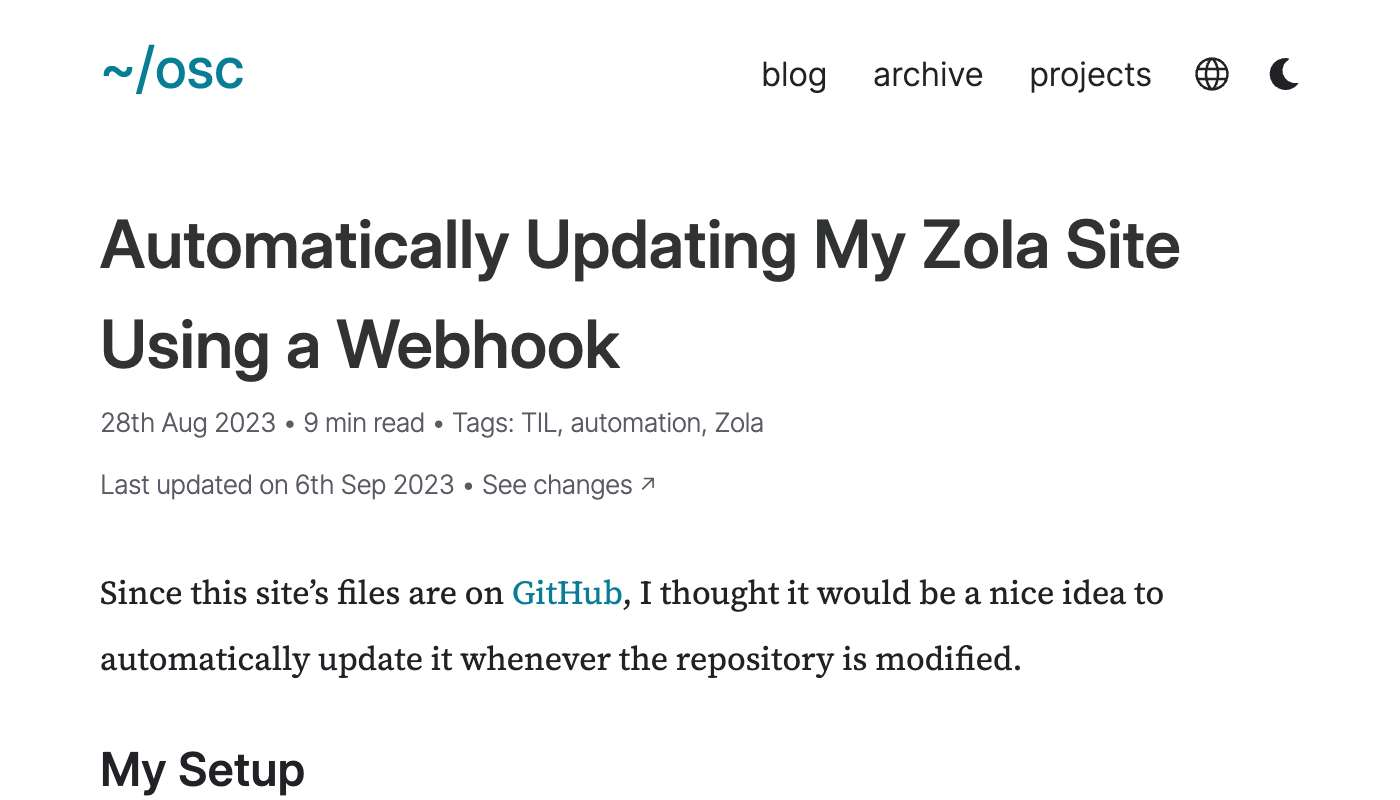
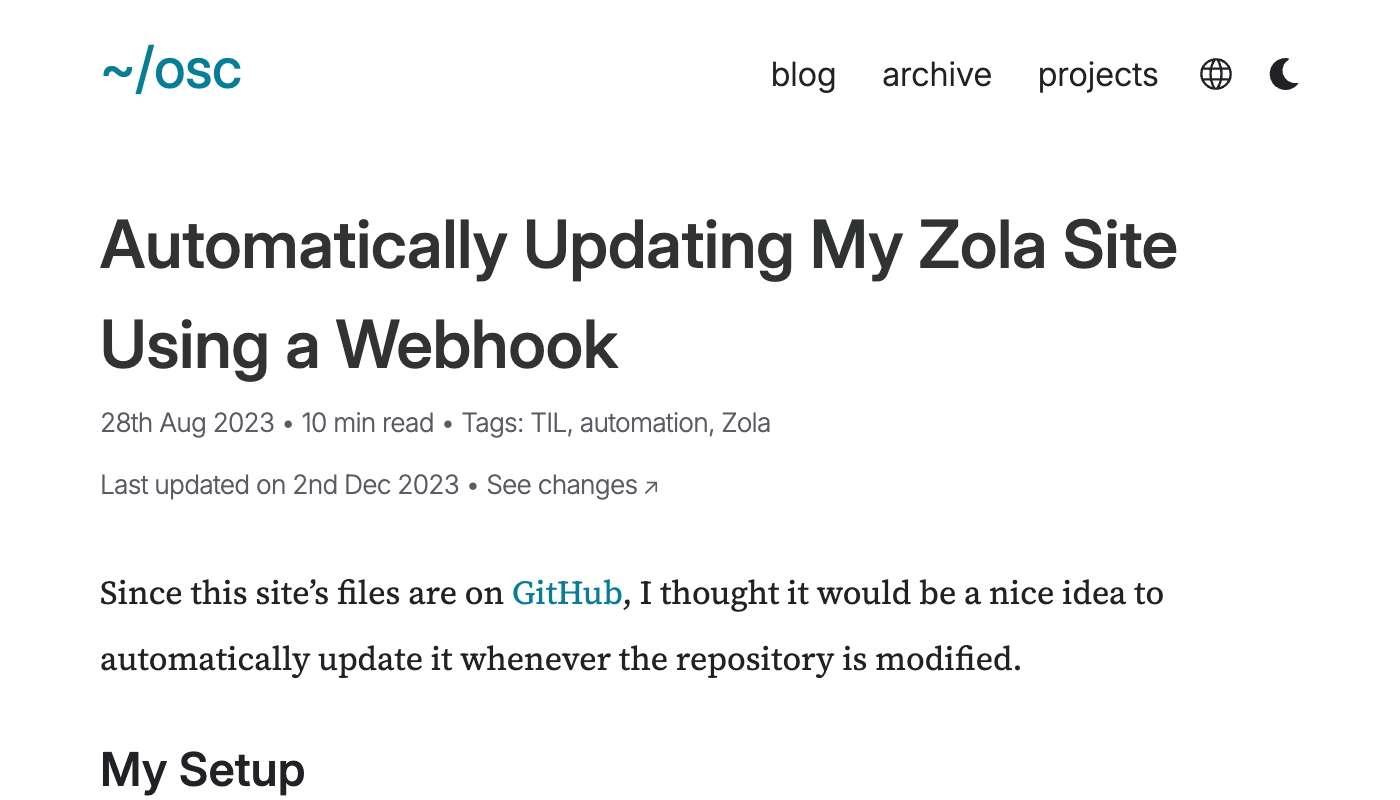
Oracle deleted my Free Tier account 🙃

diff --git a/content/blog/updating-site-with-webhook.es.md b/content/blog/updating-site-with-webhook.es.md
@@ -1,13 +1,14 @@
 +++
 title = "Automatizando la actualización de mi web con un webhook"
 date = 2023-08-28
-updated = 2023-10-19
+updated = 2023-12-02
 
 [taxonomies]
 tags = ["aprendizaje del día", "Zola", "automatización"]
 
 [extra]
 copy_button = true
+footnote_backlinks = true
 social_media_card = "img/social_cards/es_blog_updating_site_with_webhook.jpg"
 +++
 
@@ -15,7 +16,7 @@ Como los archivos de esta web están en [GitHub](https://github.com/welpo/osc.ga
 
 ## Mi sistema
 
-Esta web se sirve desde una instancia ARM de la [Free Tier de Oracle](https://www.oracle.com/cloud/free/). Hace un tiempo conseguí instalar Debian desde dentro de una instancia de Ubuntu —fue una tarde entretenida.
+Esta web se sirve desde una ~~instancia ARM de la Free Tier de Oracle~~[^1] máquina virtual de Vultr barata y fiable.
 
 La web está construida con [Zola](https://www.getzola.org/), un generador de sitios estáticos escrito en Rust. Para actualizarla, basta con sincronizar el repositorio y ejecutar `zola build`. Escribí un sencillo script en bash (`update_osc.garden`) que hace exactamente eso:
 
@@ -335,3 +336,7 @@ Las notificaciones se ven así (haz clic para alternar entre éxito y error):
 Tras aprender sobre la magia negra de los webhooks, investigué un poco sobre las notificaciones push —efectivamente, hay similitudes. Sin embargo, en lugar de escuchar en un puerto, los teléfonos dependen de conexiones duraderas a un servicio de notificaciones. Utilizan un mecanismo de *keep-alive* para mantener la conexión abierta y cuando el servidor tiene algo que notificar, manda la notificación a través de esta conexión preexistente.
 
 He aquí una analogía: los webhooks son como tus amigos enviándote un mensaje de texto (una nueva conexión cada vez) para decirte algo. Las notificaciones push, en contraposición, son como estar en una larga llamada de voz con un amigo —incluso cuando nadie habla, la conexión persiste. Cuando alguien tiene algo que decir, lo hace a través de la llamada existente en lugar de establecer una nueva conexión. El mecanismo de *keep-alive* —que mantiene la conexión abierta— sería como preguntar, después de unos minutos de silencio, «¿Sigues ahí?». «Sigo aquí».
+
+---
+
+[^1]: Oracle eliminó mi cuenta de Free Tier sin advertencia, explicación o recurso (una práctica habitual, parece). Ahora estoy alojando el sitio en una instancia de Vultr asequible y fiable que he tenido durante más de 6 años. Si quieres probar Vultr, aquí está [mi enlace de registro de referencia](https://www.vultr.com/?ref=7123709), que te da $100 en crédito, mientras yo recibo $10.

diff --git a/content/blog/updating-site-with-webhook.ca.md b/content/blog/updating-site-with-webhook.ca.md
@@ -1,13 +1,14 @@
 +++
 title = "Automatitzant l'actualització de la meva web amb un webhook"
 date = 2023-08-28
-updated = 2023-10-19
+updated = 2023-12-02
 
 [taxonomies]
 tags = ["aprenentatge del dia", "Zola", "automatització"]
 
 [extra]
 copy_button = true
+footnote_backlinks = true
 social_media_card = "img/social_cards/ca_blog_updating_site_with_webhook.jpg"
 +++
 
@@ -15,7 +16,7 @@ Com que els fitxers d'aquesta web estan a [GitHub](https://github.com/welpo/osc.
 
 ## El meu sistema
 
-Aquesta web se serveix des d'una instància ARM de la [Free Tier d'Oracle](https://www.oracle.com/cloud/free/). Fa un temps vaig aconseguir instal·lar Debian des de dins d'una instància d'Ubuntu —va ser una tarda entretinguda.
+Aquesta web se serveix des d'una ~~instància ARM de la Free Tier d'Oracle~~[^1] màquina virtual de Vultr barata i fiable.
 
 La web està construïda amb [Zola](https://www.getzola.org/), un generador de llocs estàtics escrit en Rust. Per actualitzar-la, només cal sincronitzar el repositori i executar `zola build`. Vaig escriure un senzill script en bash (`update_osc.garden`) que fa exactament això:
 
@@ -335,3 +336,7 @@ Això és tot! Després d'experimentar amb noves eines, barallar-me amb els perm
 Després d'aprendre sobre la màgia negra dels webhooks, vaig investigar una mica sobre les notificacions push —efectivament, hi ha similituds. Els mòbils, però, en lloc d'escoltar en un port, depenen de connexions duradores a un servei de notificacions. Utilitzen un mecanisme de *keep-alive* per mantenir la connexió oberta i quan el servidor té alguna cosa per notificar, envia la notificació a través d'aquesta connexió preexistent.
 
 Com a analogia: els webhooks són com els teus amics enviant-te un missatge de text (una nova connexió cada cop) per dir-te alguna cosa. Les notificacions push, en contraposició, són com estar en una llarga trucada de veu amb un amic —inclús quan ningú parla, la connexió persisteix. Quan algú té alguna cosa a dir, ho fa a través de la trucada existent en lloc d'establir una nova connexió. El mecanisme de *keep-alive* —que manté la connexió oberta— seria com preguntar, després d'uns minuts de silenci, «Hi ets?». «Hi soc».
+
+---
+
+[^1]: Oracle va eliminar el meu compte de Free Tier sense avís, explicació o recurs (una pràctica habitual, sembla). Ara estic allotjant el lloc en una instància de Vultr assequible i fiable que tinc des de fa més de sis anys. Si vols provar Vultr, aquí tens [el meu enllaç de registre de referència](https://www.vultr.com/?ref=7123709), que et dona $100 en crèdit, mentre jo rebo $10.

diff --git a/content/blog/updating-site-with-webhook.md b/content/blog/updating-site-with-webhook.md
@@ -1,13 +1,14 @@
 +++
 title = "Automatically Updating My Zola Site Using a Webhook"
 date = 2023-08-28
-updated = 2023-10-19
+updated = 2023-12-02
 
 [taxonomies]
 tags = ["TIL", "automation", "Zola"]
 
 [extra]
 copy_button = true
+footnote_backlinks = true
 social_media_card = "img/social_cards/blog_updating_site_with_webhook.jpg"
 +++
 
@@ -15,7 +16,7 @@ Since this site's files are on [GitHub](https://github.com/welpo/osc.garden/), I
 
 ## My Setup
 
-I'm hosting this site on an ARM instance of Oracle's Free Tier. A while ago I managed to install Debian from within an Ubuntu instance—that was fun.
+I'm hosting this site ~~on an ARM instance of Oracle's Free Tier~~[^1] on a cheap and realiable Vultr virtual machine.
 
 The site is built with [Zola](https://www.getzola.org/), a fast static site generator. All I need to do to update my site is to grab the latest changes from the repository and run `zola build`. I wrote a simple bash script (`update_osc.garden`) to handle this process:
 
@@ -335,3 +336,7 @@ And that's it! After tinkering with some new tools, a lot of troubleshooting (da
 After learning about the webhook black magic, I researched a bit about push notifications—they're indeed similar to webhooks. However, instead of listening on a port, phones rely on long-lived connections to a notification service. They use a keep-alive mechanism to keep the connection open and when the server has something to notify, it pushes the notification payload over this preexisting connection.
 
 Here's an analogy: webhooks are like your friends sending you a text (a new connection each time) to tell you something. Push notifications are like being on a long voice call with a friend—even when no one is talking, the connection persists. Whenever someone wants to speak up, they use the existing call instead of setting up a new connection. The keep-alive mechanism would be akin to asking, after some minutes of silence, "You there?". "Yeah".
+
+---
+
+[^1]: Oracle deleted my Free Tier account without warning, explanation or recourse (a common practice, it seems). I am now hosting the site on an affordable and reliable Vultr instance I've had for over six years. If you want to try Vultr, here's [my referral signup link](https://www.vultr.com/?ref=7123709), which gets you $100 in credit, while I get $10.
